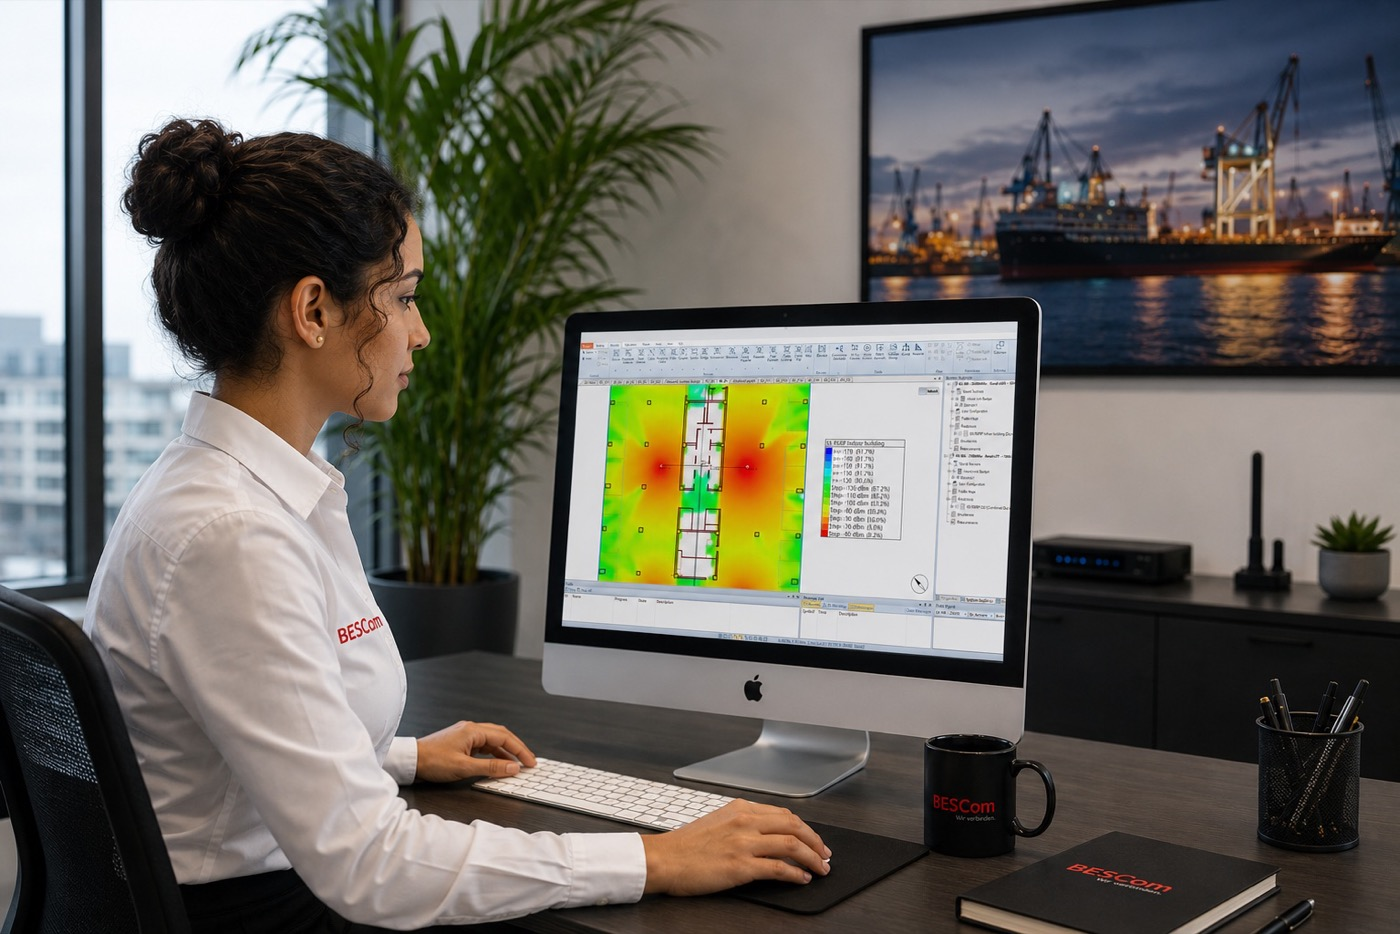
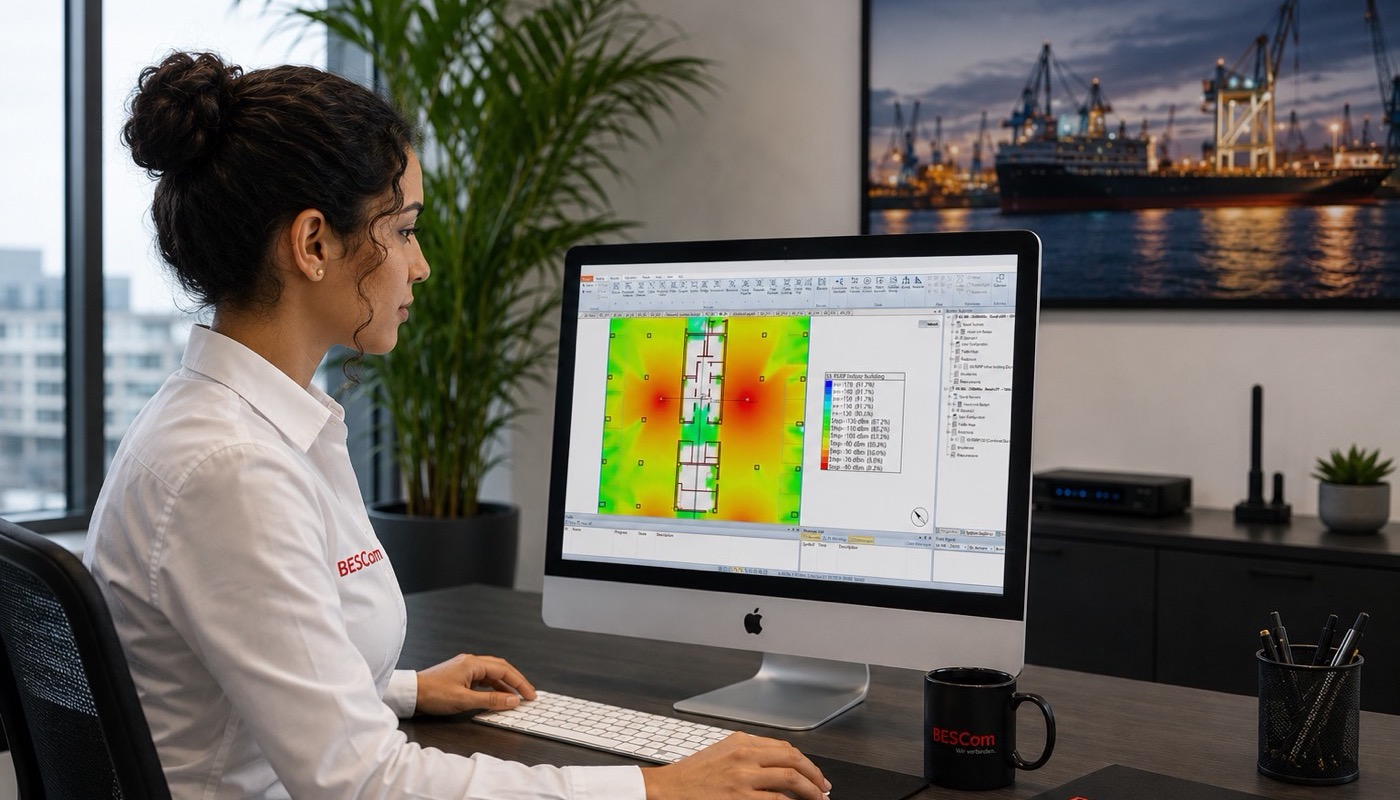
fix: Bedarfsanalyse-Foto auf 1400x800 (16:9) gecroppt – einheitlich mit Industrie-Fotos

diff --git a/lte-campusnetz.html b/lte-campusnetz.html
@@ -253,7 +253,7 @@
       <div data-aos="fade-up">
         <img src="assets/images/bedarfsanalyse-frequenzplanung-lte.jpg"
              alt="BESCom Ingenieurin bei der LTE-Campusnetz Bedarfsanalyse und Frequenzplanung mit Coverage-Simulation"
-             class="section-photo" loading="lazy" width="1400" height="934">
+             class="section-photo" loading="lazy" width="1400" height="800">
       </div>
 
       <div class="service-detail">
